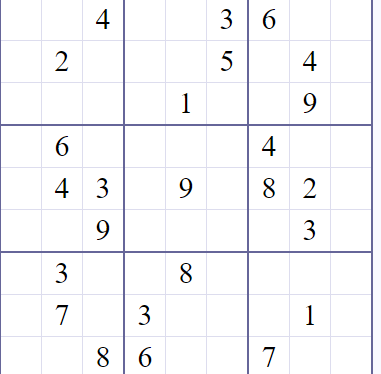
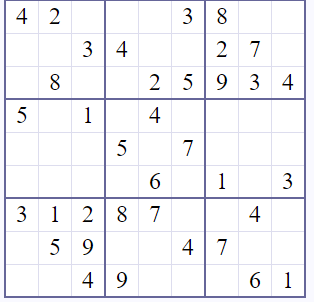
backtracking

Changed region(s): [[0.0, 0.0, 1.0, 1.0]]

diff --git a/test.py b/test.py
@@ -1,3 +1,74 @@
-list = [0,1,2,3,4,5,6,7,8,9]
+boardList = [[[4], [2], [], [], [], [3], [8], [], []],
+        [[], [], [3], [4], [], [], [2], [7], []],
+        [[], [8], [], [], [2], [5], [9], [3], [4]],
+        [[5], [], [1], [], [4], [], [], [], []],
+        [[], [], [], [5], [], [7], [], [], []],
+        [[], [], [], [], [6], [], [1], [], [3]],
+        [[3], [1], [2], [8], [7], [], [], [4], []],
+        [[], [5], [9], [], [], [4], [7], [], []],
+        [[], [], [4], [9], [], [], [], [6], [1]]]
 
-print(list[::89])
+validAnswer = False
+
+while validAnswer == False:
+    for rowIndex, row in enumerate(boardList):
+        for columnIndex, column in enumerate(row):
+            if len(boardList[rowIndex][columnIndex]) == 0:
+                #Add all possible values to array
+                for x in range(9):
+                    boardList[rowIndex][columnIndex].append(x + 1)
+
+                if rowIndex > 2 and rowIndex < 6:
+                    tempRowSearch = 3
+                elif rowIndex > 5:
+                    tempRowSearch = 6
+                else:
+                    tempRowSearch = 0
+                if columnIndex > 2 and columnIndex < 6:
+                    tempColumnSearch = 3
+                elif rowIndex > 5:
+                    tempColumnSearch = 6
+                else:
+                    tempColumnSearch = 0
+                saveTemp = tempColumnSearch
+                saveRowTemp = tempRowSearch
+                # Box Search
+                for tempRowSearch in range(tempRowSearch,tempRowSearch + 3):
+                    tempColumnSearch = saveTemp
+                    for tempColumnSearch in range(tempColumnSearch,tempColumnSearch + 3):
+                        if len(boardList[tempRowSearch][tempColumnSearch]) != 1:
+                            continue
+                        elif boardList[tempRowSearch][tempColumnSearch][0] in boardList[rowIndex][columnIndex]:
+                            boardList[rowIndex][columnIndex].remove(boardList[tempRowSearch][tempColumnSearch][0])
+
+                #Column Search
+                for tempColumnSearch in range(9):
+                    if len(boardList[rowIndex][columnIndex]) == 1:
+                        break
+                    if len(boardList[rowIndex][tempColumnSearch]) != 1:
+                        continue
+                    elif boardList[rowIndex][tempColumnSearch][0] in boardList[rowIndex][columnIndex]:
+                        boardList[rowIndex][columnIndex].remove(boardList[rowIndex][tempColumnSearch][0])
+                #Row Search
+                for tempRowSearch in range(9):
+                    if len(boardList[rowIndex][columnIndex]) == 1:
+                        break
+                    if(len(boardList[tempRowSearch][columnIndex]) != 1):
+                        continue
+                    elif boardList[tempRowSearch][columnIndex][0] in boardList[rowIndex][columnIndex]:
+                        boardList[rowIndex][columnIndex].remove(boardList[tempRowSearch][columnIndex][0])
+                #Box Search for unique values
+                tempRowSearch = saveRowTemp
+                for tempRowSearch in range(tempRowSearch,tempRowSearch + 3):
+                    tempColumnSearch = saveTemp
+                    for tempColumnSearch in range(tempColumnSearch,tempColumnSearch + 3):
+                        if len(boardList[tempRowSearch][tempColumnSearch]) > 1 and tempRowSearch != rowIndex and tempColumnSearch != columnIndex:
+                              boardList[rowIndex][columnIndex] = list(set(boardList[rowIndex][columnIndex]) - set(boardList[tempRowSearch][tempColumnSearch]))
+    possiblesCount = 0
+    for row in boardList:
+        for column in row:
+            if len(column) != 1:
+                possiblesCount += 1
+    if possiblesCount == 0:
+        validAnswer = True
+    print(boardList)

diff --git a/backtracking.py b/backtracking.py
@@ -1,0 +1,97 @@
+import copy
+staticList = [[4, 2, 0, 0, 0, 3, 8, 0, 0],
+        [0, 0, 3, 4, 0, 0, 2, 7, 0],
+        [0, 8, 0, 0, 2, 5, 9, 3, 4],
+        [5, 0, 1, 0, 4, 0, 0, 0, 0],
+        [0, 0, 0, 5, 0, 7, 0, 0, 0],
+        [0, 0, 0, 0, 6, 0, 1, 0, 3],
+        [3, 1, 2, 8, 7, 0, 0, 4, 0],
+        [0, 5, 9, 0, 0, 4, 7, 0, 0],
+        [0, 0, 4, 9, 0, 0, 0, 6, 1]]
+
+for i in range(9):
+    try:
+        firstIndex = [i,staticList[i].index(0)]
+        break
+    except:
+        pass
+print(firstIndex)
+validEntry = False
+activeList = copy.deepcopy(staticList)
+activeIndex = list.copy(firstIndex)
+activeSearch = 1
+lastActiveIndex = list.copy(firstIndex)
+
+
+def boxSearch(firstIndex,searchValue,boardList):
+    if(firstIndex[0] >= 0 and firstIndex[0] < 4):
+        rowSearchIndex = 0
+    elif(firstIndex[0] > 3 and firstIndex[0] < 6):
+        rowSearchIndex = 3
+    else:
+        rowSearchIndex = 6
+
+    if(firstIndex[1] > 0 and firstIndex[1] < 4):
+        columnSearchIndex = 0
+    elif(firstIndex[1] > 3 and firstIndex[1] < 6):
+        columnSearchIndex = 3
+    else:
+        columnSearchIndex = 6
+    saveColumnIndex = columnSearchIndex
+    for rowSearchIndex in range(rowSearchIndex,rowSearchIndex+3):
+        columnSearchIndex = saveColumnIndex
+        for columnSearchIndex in range(columnSearchIndex,columnSearchIndex+3):
+            if boardList[rowSearchIndex][columnSearchIndex] == searchValue:
+                return False
+    return(True)
+def columnSearch(firstIndex,searchValue,boardList):
+    for i in range(9):
+        if(boardList[firstIndex[0]][i] == searchValue):
+            return False
+    return True
+def rowSearch(firstIndex,searchValue,boardList):
+    for i in range(9):
+        if boardList[i][firstIndex[1]] == searchValue:
+            return False
+    return True
+def findEmptyIndex(boardList,currentPoint):
+    foundIndex = False
+    if currentPoint[1] == 9:
+        currentPoint[0] -= 1
+        currentPoint[1] = 0
+    else:
+        currentPoint[1] -= 1
+    while not foundIndex:
+        if boardList[currentPoint[0]][currentPoint[1]] != 0:
+            if currentPoint[1] == 0:
+                currentPoint[0] -= 1
+                currentPoint[1] = 9
+            else:
+                currentPoint[1] -= 1
+        else:
+            return currentPoint
+while validEntry == False:
+    if(staticList[activeIndex[0]][activeIndex[1]] != 0):
+        if activeIndex[1] == 9: #at the end of a row
+            activeIndex[0] += 1
+            activeIndex[1] = 0
+        else:
+            activeIndex[1] += 1
+        continue
+    if not boxSearch(activeIndex, activeSearch, activeList) or not columnSearch(activeIndex,activeSearch,activeList) or not rowSearch(activeIndex,activeSearch,activeList):
+        if activeSearch == 9:
+            activeIndex = findEmptyIndex(staticList,activeIndex)
+            while activeList[activeIndex[0]][activeIndex[1]] == 9:
+                activeIndex = findEmptyIndex(staticList,activeIndex)
+            activeSearch = activeList[activeIndex[0]][activeIndex[1]] + 1
+        else:
+            activeSearch += 1
+    else:
+        activeList[activeIndex[0]][activeIndex[1]] = activeSearch
+        activeSearch = 1
+        if activeIndex[1] == 9:  # at the end of a row
+            activeIndex[0] += 1
+            activeIndex[1] = 0
+        else:
+            activeIndex[1] += 1
+    print(activeList)

diff --git a/Solver.py b/Solver.py
@@ -2,47 +2,54 @@ import pyautogui
 import cv2, numpy as np
 topLeftLocation = pyautogui.locateCenterOnScreen("TopLeft.png")
 bottomRightLocation = pyautogui.locateCenterOnScreen("BottomRight.png")
+sudokuGrid = [[[],[],[],[],[],[],[],[],[]],
+              [[],[],[],[],[],[],[],[],[]],
+              [[],[],[],[],[],[],[],[],[]],
+              [[],[],[],[],[],[],[],[],[]],
+              [[],[],[],[],[],[],[],[],[]],
+              [[],[],[],[],[],[],[],[],[]],
+              [[],[],[],[],[],[],[],[],[]],
+              [[],[],[],[],[],[],[],[],[]],
+              [[],[],[],[],[],[],[],[],[]]]
+
 print("Puzzle Location: ",topLeftLocation,bottomRightLocation)
 
-im = pyautogui.screenshot(imageFilename="my_screenshot.png",region=(topLeftLocation[0],topLeftLocation[1],bottomRightLocation[0]-topLeftLocation[0],bottomRightLocation[1]-topLeftLocation[1]))
+im = pyautogui.screenshot(imageFilename="my_screenshot.png",region=(topLeftLocation[0],topLeftLocation[1],bottomRightLocation[0]-topLeftLocation[0],bottomRightLocation[1]-topLeftLocation[1] + 10))
 
-# Reads in the images into CV2 objects
+imageList = ["1","2","3","4","5","6","7","8","9"]
 img_rgb = cv2.imread("my_screenshot.png")
-img_gray = cv2.cvtColor(img_rgb, cv2.COLOR_BGR2GRAY)
-template = cv2.imread("5.png",0)
+for index, imageIndex in enumerate(imageList):
+    # Reads in the images into CV2 objects
+    img_gray = cv2.cvtColor(img_rgb, cv2.COLOR_BGR2GRAY)
+    template = cv2.imread(str(imageIndex) + ".png",0)
 
-#Gets the width and height of the template object?
-w,h = template.shape[::-1]
-print("Width - Height: " , w,h)
-#finds the images in the main image
-res = cv2.matchTemplate(img_gray,template,cv2.TM_CCOEFF_NORMED)
-threshold = 0.8
+    #Gets the width and height of the template object?
+    w,h = template.shape[::-1]
+    print("Width - Height: " , w,h)
+    #finds the images in the main image
+    res = cv2.matchTemplate(img_gray,template,cv2.TM_CCOEFF_NORMED)
+    threshold = 0.8
 
-loc = np.where(res >= threshold)
-print(loc)
-print(loc[::-1])
-print(*loc[::-1])
-#Draws rectangle, using zip?
-for pt in zip(*loc[::-1]):
-    cv2.rectangle(img_rgb,pt,(pt[0] + w, pt[1] + h), (0,0,255), 2)
+    loc = np.where(res >= threshold)
+    print(loc)
+    print(loc[::-1])
+    print(*loc[::-1])
+    #Draws rectangle, using zip?
+    for pt in zip(*loc[::-1]):
+        cv2.rectangle(img_rgb,pt,(pt[0] + w, pt[1] + h), (0,0,255), 2)
+    #enumerating through the xvalues of the locations
+    for i in range(9):
+        for j in range(9):
+            for k, location in enumerate(loc[1]):
+                if((location >= 6 + (33*i) and location <= 37 + (33*i)) and (loc[0][k] >= 1 + (33*j) and loc[0][k] <= 32 + (33*j))):
+                    sudokuGrid[j][i].append(index + 1)
 
-cv2.imshow('output',img_rgb)
+print(sudokuGrid)
+cv2.imshow("output",img_rgb)
 cv2.waitKey(0)
 
 
-# method = cv2.TM_SQDIFF_NORMED
-#
-# small_image = cv2.imread('9.png')
-# large_image = cv2.imread("my_screenshot.png")
-#
-# result = cv2.matchTemplate(small_image,large_image,method)
-#
-# mn,_,mnLoc,_ = cv2.minMaxLoc(result)
-#
-# MPx,MPy = mnLoc
-#
-# trows,tcols = small_image.shape[:2]
-#
-# cv2.rectangle(large_image,(MPx,MPy),(MPx + tcols,MPy + trows),(0,0,255),2)
-# cv2.imshow('output',large_image)
-# cv2.waitKey(0)
+
+
+#Squares are 31 pixals long, starting at 6
+#Sqaures are 31 pixals long, starting at 1
